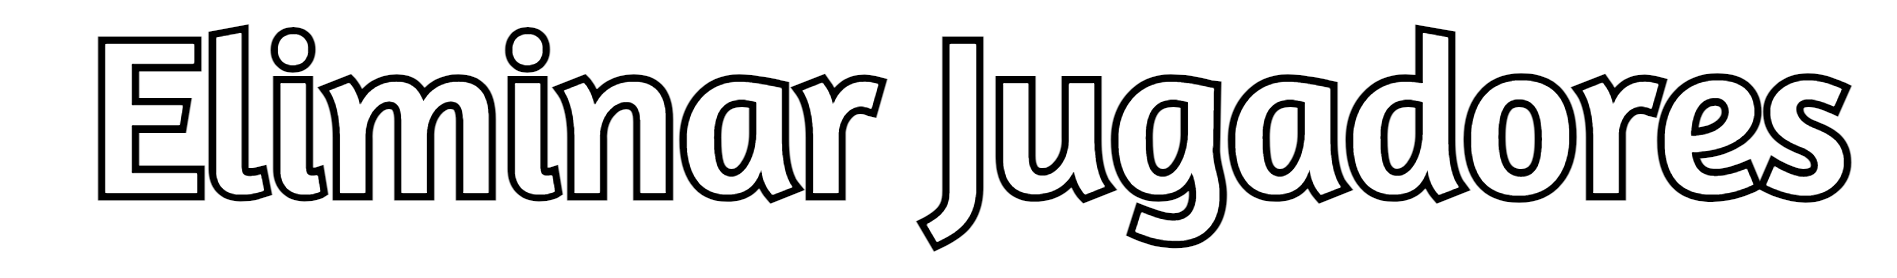
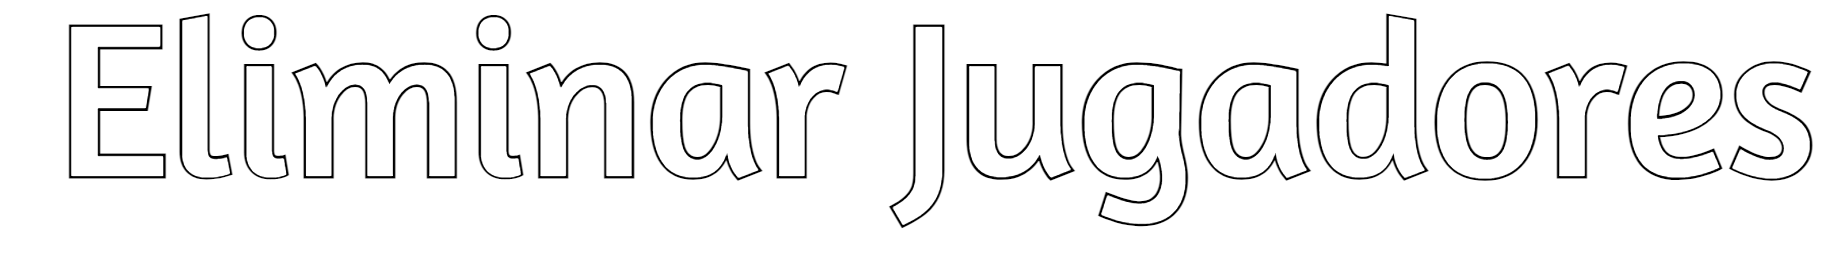
Images of titles already

Changed region(s): [[0.4654, 0.0611, 0.9929, 0.916], [0.031, 0.0611, 0.4654, 0.7328]]

diff --git a/src/ui/BasketballDataGUI.java b/src/ui/BasketballDataGUI.java
@@ -96,6 +96,21 @@ public class BasketballDataGUI {
 
     @FXML
     private ImageView imgBack;
+    
+    @FXML
+    private ImageView titleImpP;
+
+    @FXML
+    private ImageView titleSearchP;
+
+    @FXML
+    private ImageView titleDeleteP;
+
+     @FXML
+    private ImageView titleAddPlayers;
+
+    @FXML
+    private ImageView titleAnchPlayers;
 
 	
 	@FXML
@@ -178,39 +193,69 @@ public class BasketballDataGUI {
 		
 		switch (s) {
 		case "     Jugadores":
+			
 			btnPlayers.setStyle(style);
 			btnPlayers.setEffect(dropShadow);
 			btnPlayersVerify = false;
+			
 			anchorPlayers.setVisible(true);
 	    	anchorPlayers.setDisable(false);
+	    	
+	    	Image title = new Image("/images/listPlayersT.png");
+			titleAnchPlayers.setImage(title);
+	    	
 			break;
 		case "  Agregar":
+			
 			btnAdd.setStyle(style);
 			btnAdd.setEffect(dropShadow);
 			btnAddVerify = false;
+			
 			anchorAdd.setVisible(true);
 	    	anchorAdd.setDisable(false);
+	    	
+	    	Image add = new Image("/images/addPlayersT.png");
+	    	titleAddPlayers.setImage(add);
+			
 			break;
 		case "  Eliminar":
+			
 			btnDelete.setStyle(style);
 			btnDelete.setEffect(dropShadow);
 			btnDeleteVerify = false;
+			
 			anchorDelete.setVisible(true);
 	    	anchorDelete.setDisable(false);
+	    	
+	    	Image delete = new Image("/images/deletePlayersT.png");
+			titleDeleteP.setImage(delete);
+	    	
 			break;
 		case "Buscar":
+			
 			btnSearch.setStyle(style);
 			btnSearch.setEffect(dropShadow);
 			btnSearchVerify = false;
+			
 			anchorSearch.setVisible(true);
 	    	anchorSearch.setDisable(false);
+	    	
+	    	Image search = new Image("/images/searchPlayersT.png");
+			titleSearchP.setImage(search);
+	    	
 			break;
 		case "   Importar":
+			
 			btnImport.setStyle(style);
 			btnImport.setEffect(dropShadow);
 			btnImportVerify = false;
+			
 			anchorImport.setVisible(true);
 	    	anchorImport.setDisable(false);
+	    	
+	    	Image imp = new Image("/images/importPlayerT.png");
+			titleImpP.setImage(imp);
+	    	
 			break;
 		default:
 			break;
